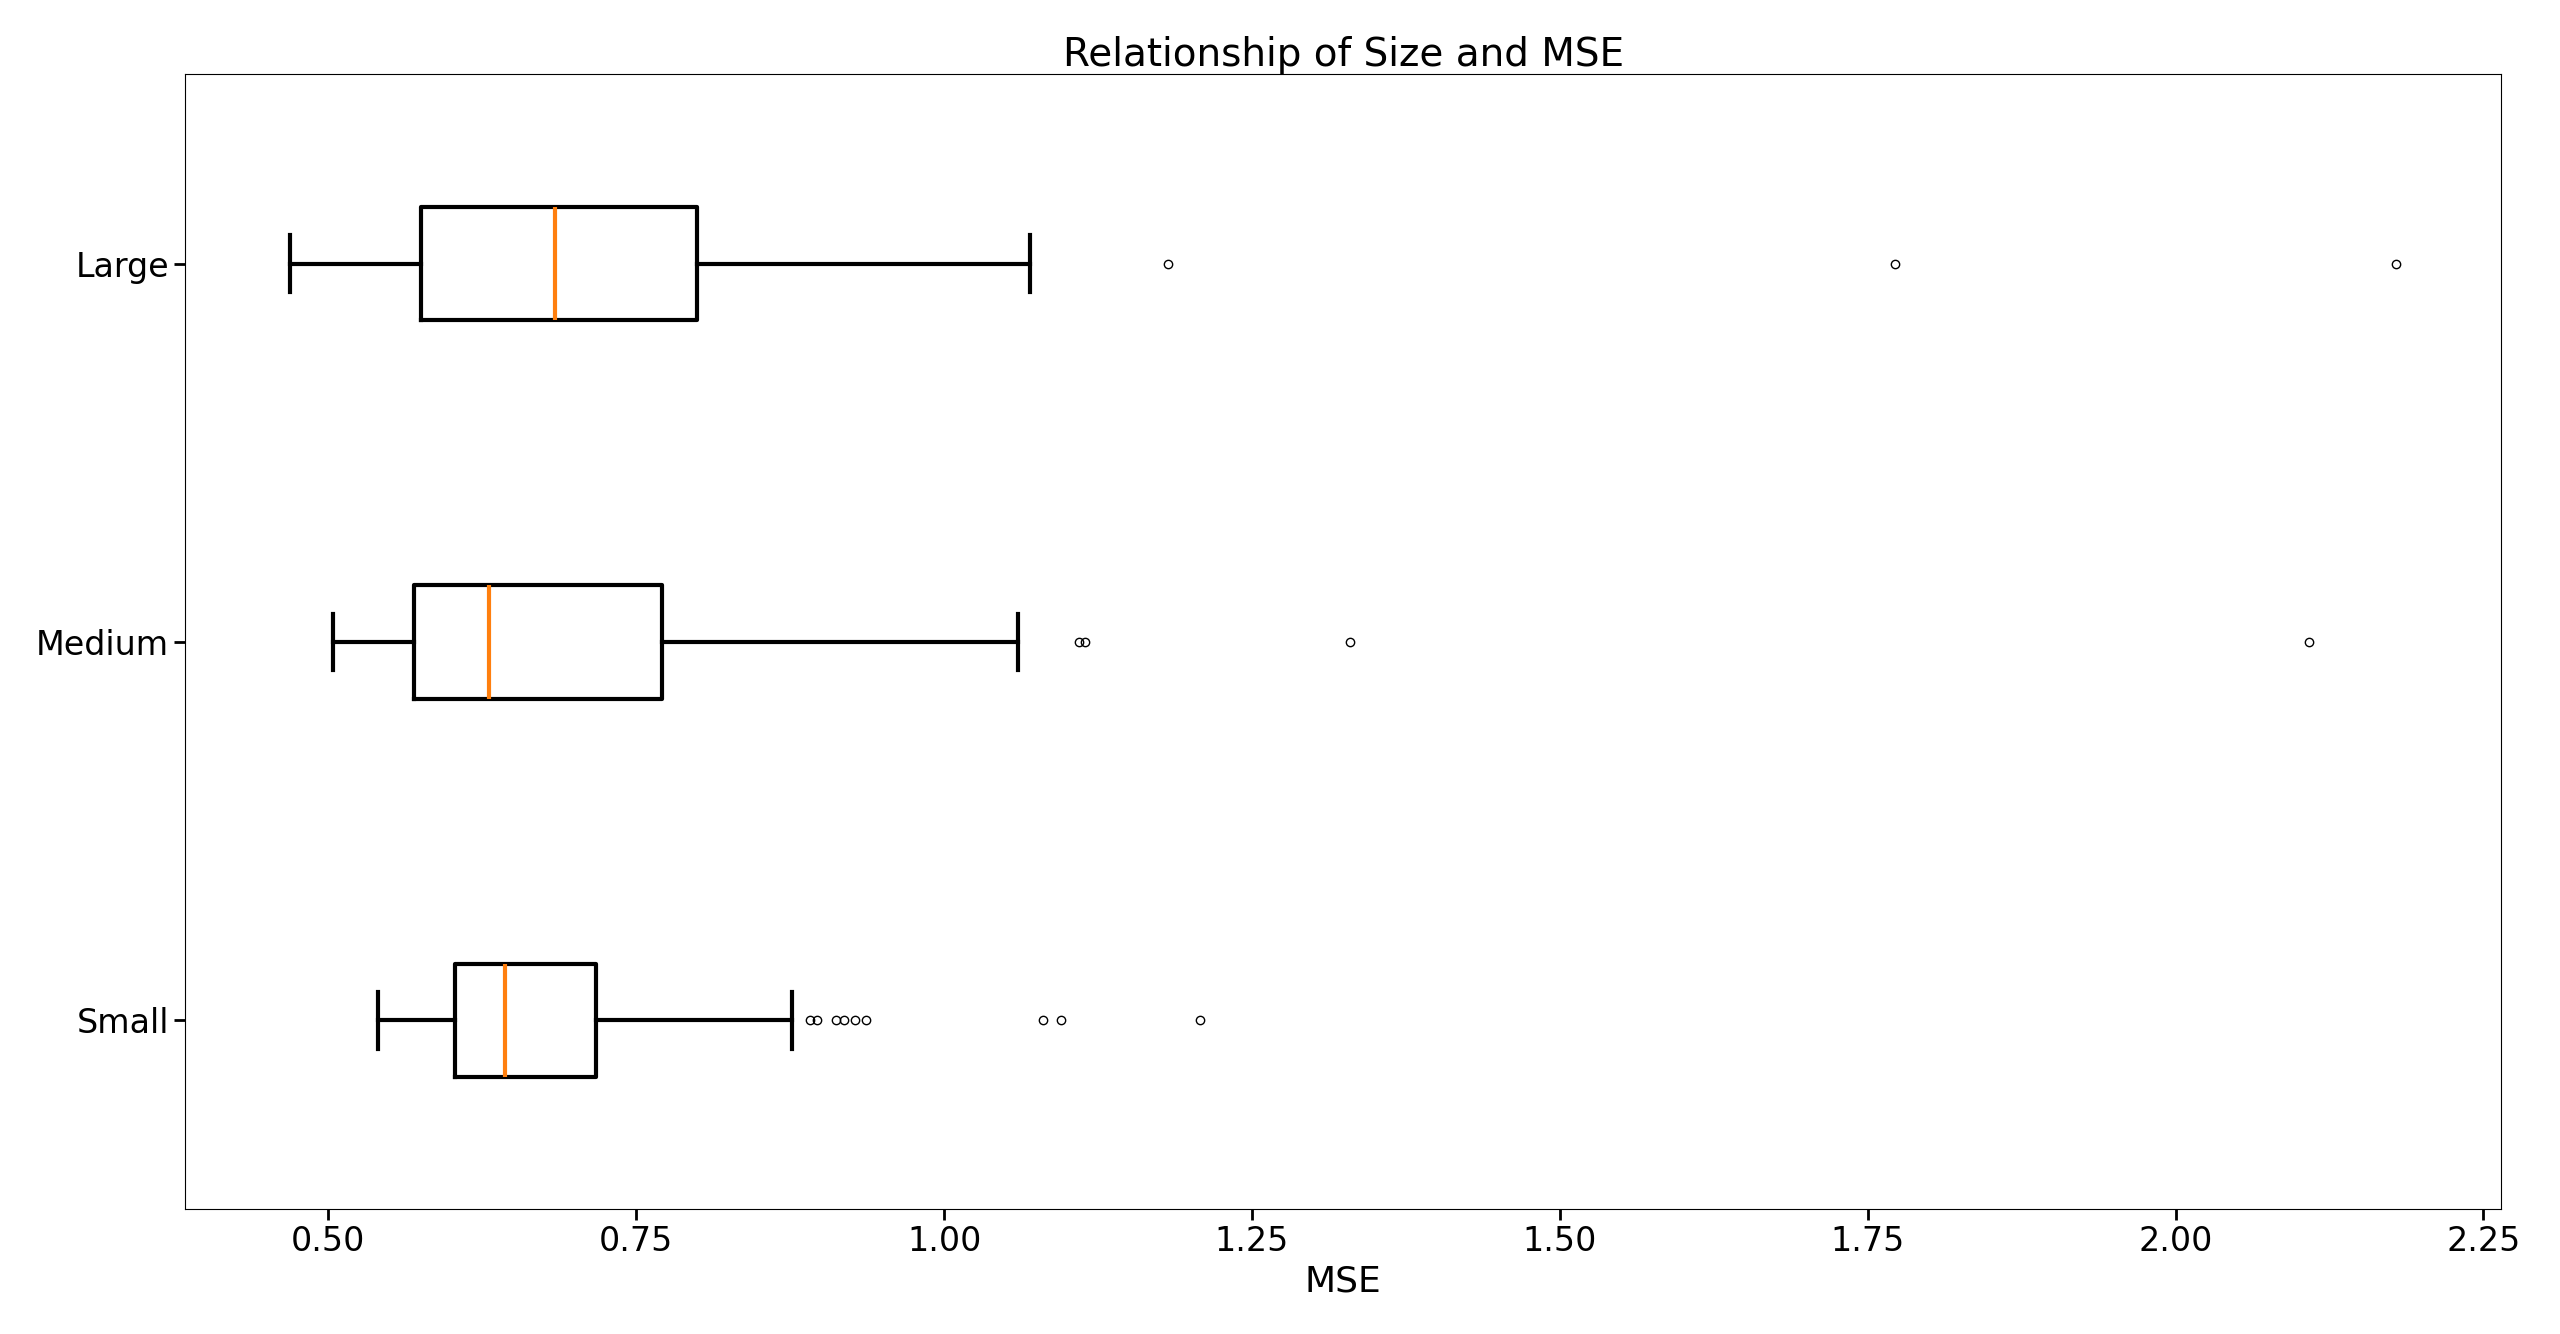
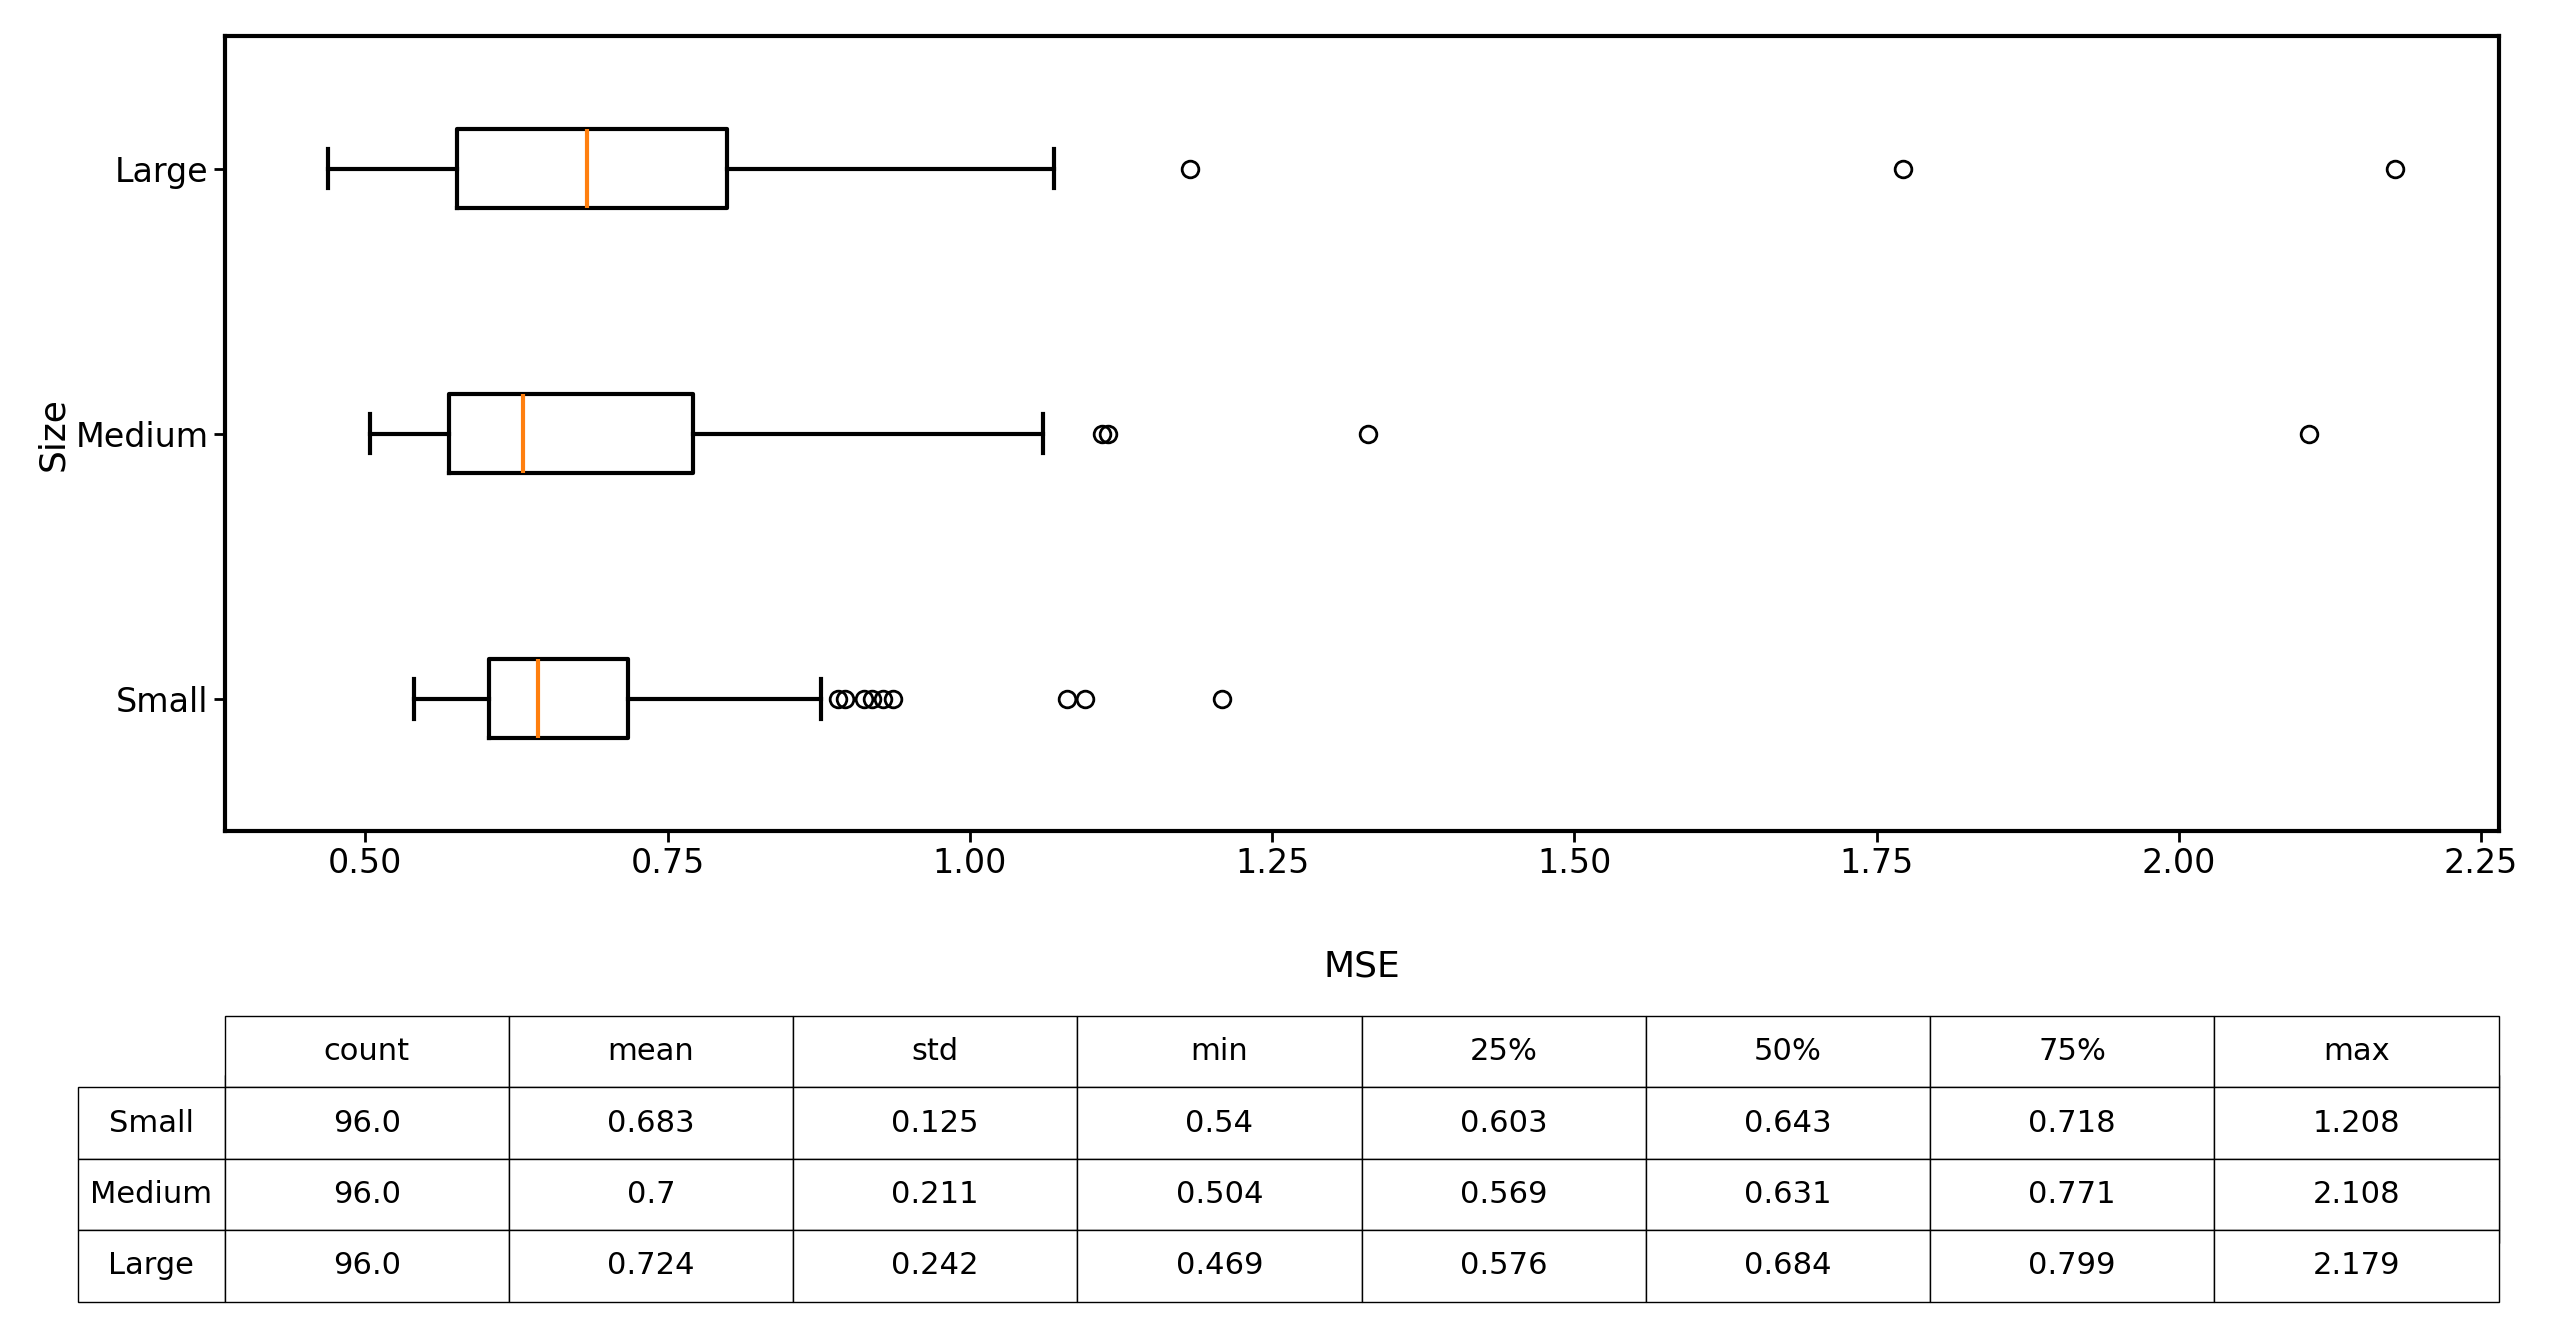
Updated the graphs to include the tables

diff --git a/boxplot_lr.py b/boxplot_lr.py
@@ -82,7 +82,7 @@ tbl = ax_tbl.table(cellText=summary.values,
                    loc='center')
 
 tbl.auto_set_font_size(False) 
-tbl.set_fontsize(18)          
+tbl.set_fontsize(22)          
 plt.show()
 
 

diff --git a/boxplot_optimizer.py b/boxplot_optimizer.py
@@ -74,7 +74,7 @@ tbl = ax_tbl.table(cellText=summary.values,
                    loc='center')
 
 tbl.auto_set_font_size(False) 
-tbl.set_fontsize(18)          
+tbl.set_fontsize(22)          
 plt.show()
 
 

diff --git a/boxplot_shape.py b/boxplot_shape.py
@@ -81,5 +81,5 @@ tbl = ax_tbl.table(cellText=summary.values,
                    loc='center')
 
 tbl.auto_set_font_size(False)  
-tbl.set_fontsize(18)           
+tbl.set_fontsize(22)           
 plt.show()

diff --git a/boxplot_size.py b/boxplot_size.py
@@ -62,5 +62,5 @@ tbl = ax_tbl.table(cellText=summary.values,
                    loc='center')
 
 tbl.auto_set_font_size(False)  
-tbl.set_fontsize(18)          
+tbl.set_fontsize(22)          
 plt.show()

diff --git a/boxplot_epochs.py b/boxplot_epochs.py
@@ -79,5 +79,5 @@ tbl = ax_tbl.table(cellText=summary.values,
                    loc='center')
 
 tbl.auto_set_font_size(False) 
-tbl.set_fontsize(18)          
+tbl.set_fontsize(22)          
 plt.show()
